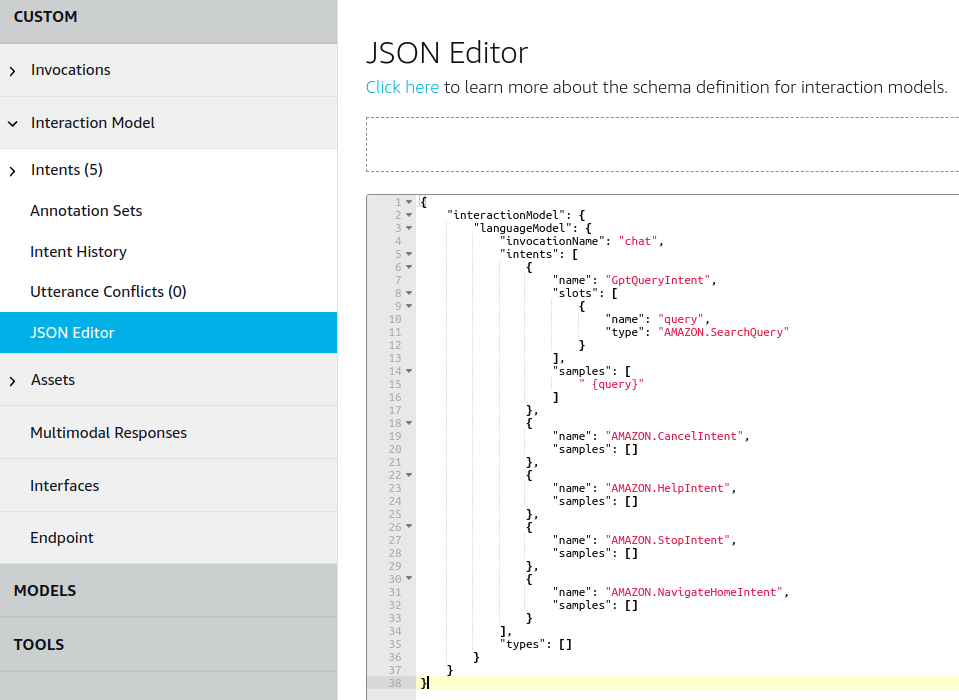
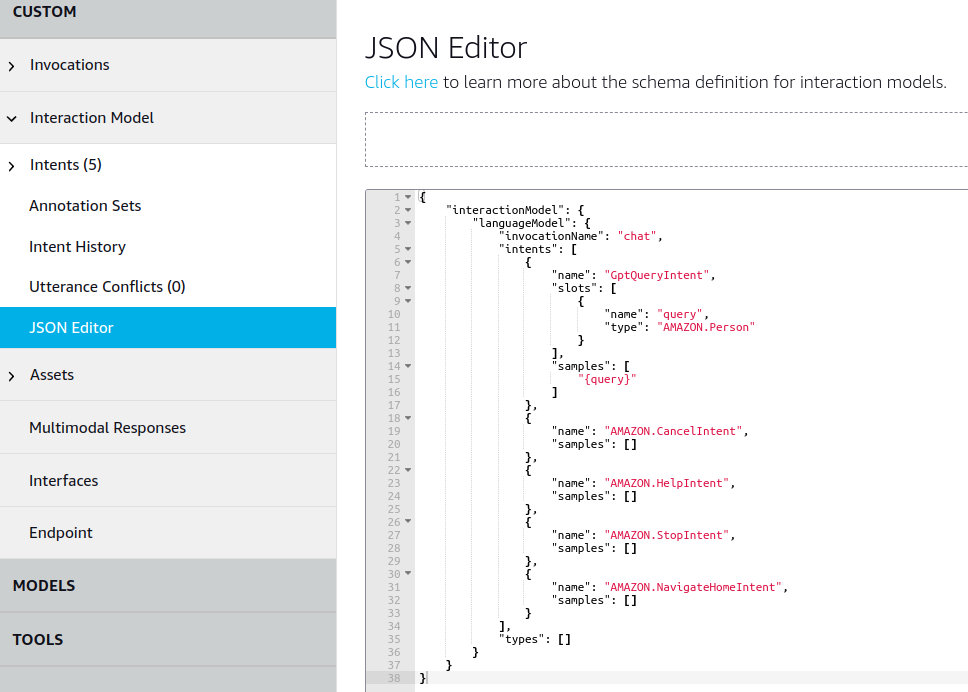
changed AMAZON.SearchQuery to AMAZON.Person

diff --git a/README.md b/README.md
@@ -52,11 +52,11 @@ This repository contains a tutorial on how to create a simple Alexa skill that u
                     "slots": [
                         {
                             "name": "query",
-                            "type": "AMAZON.SearchQuery"
+                            "type": "AMAZON.Person"
                         }
                     ],
                     "samples": [
-                        " {query}"
+                        "{query}"
                     ]
                 },
                 {
